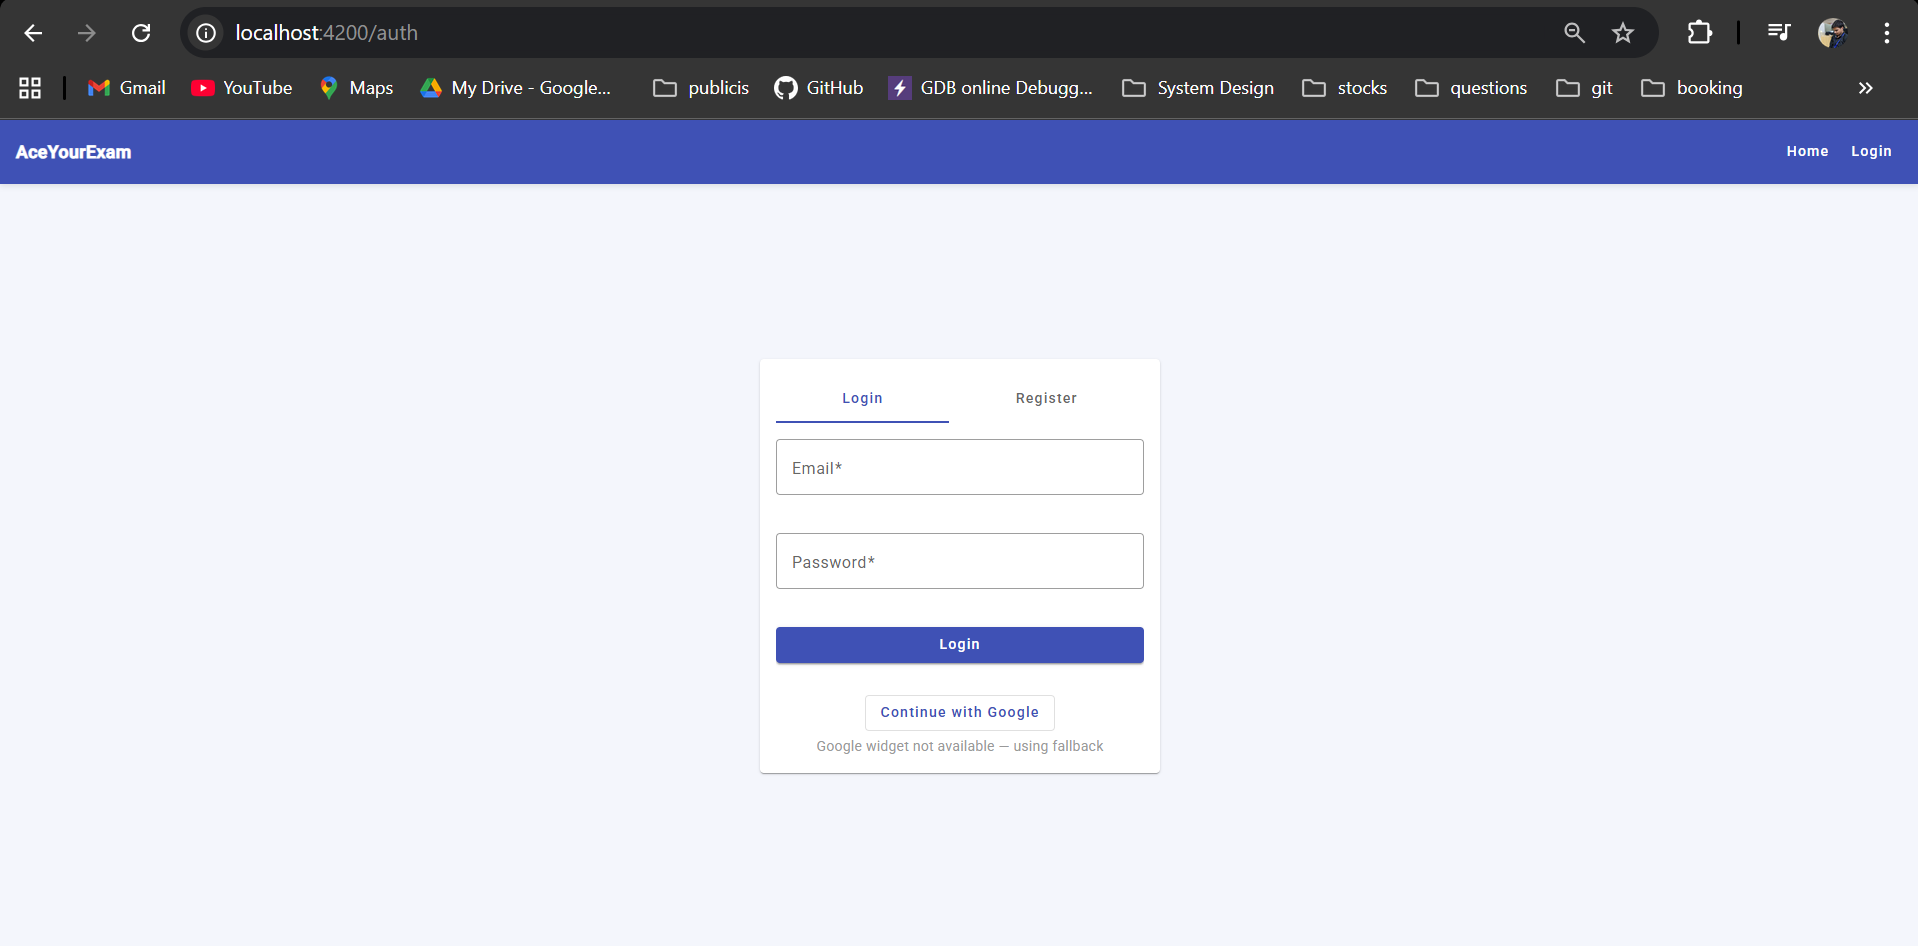
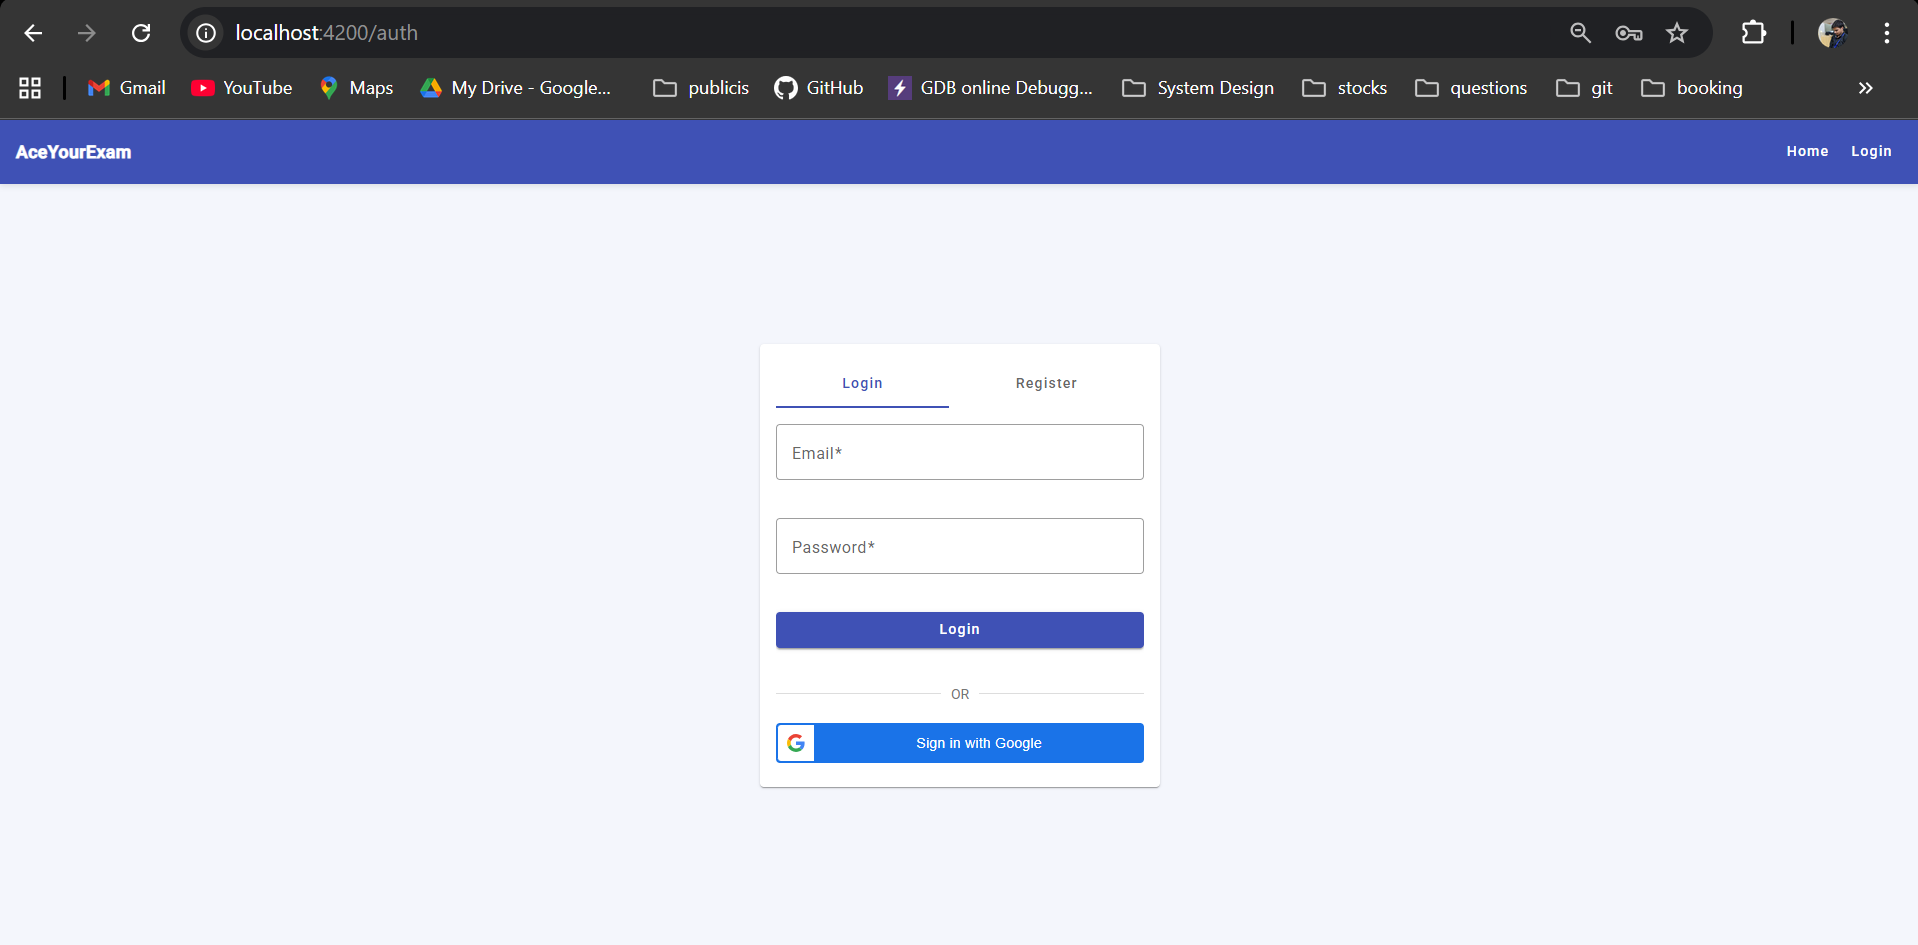
Updated readme for google login

diff --git a/README.md b/README.md
@@ -30,11 +30,25 @@ The platform focuses on **exam realism, accuracy, and detailed analytics**, prov
 
 ## 🔐 Authentication & Security
 
-- Email & password-based authentication
-- JWT token generation and validation
-- Custom authentication filter (`JwtAuthenticationFilter`)
-- Route protection using Angular guards
-- Secure endpoint access via Spring Security
+AceYourExam implements a **production-grade authentication system** with both traditional and modern login flows.
+
+- 🔑 **Email & Password Authentication**
+  - Secure login and registration
+  - Passwords stored using strong hashing
+  - JWT-based stateless session management
+
+- 🟢 **Google OAuth 2.0 Login**
+  - One-click login using Google account
+  - Secure ID token verification on backend
+  - Automatic user provisioning for first-time Google users
+  - Seamless fallback to JWT-based authorization after login
+
+- 🛡 **Security & Access Control**
+  - JWT token generation and validation
+  - Role-based authorization (**STUDENT / ADMIN**)
+  - Custom authentication filter (`JwtAuthenticationFilter`)
+  - Secure endpoint access via Spring Security
+  - Route protection using Angular guards
 
 ---
 
@@ -108,7 +122,9 @@ The platform focuses on **exam realism, accuracy, and detailed analytics**, prov
 
 - 🔐 **Secure Authentication**
   - Email & password login
+  - Google OAuth 2.0 login (One-click sign-in)
   - JWT-based session handling
+  - Role-based access control
 
 - 📝 **Real Exam Experience**
   - Timed exams with auto-submit
@@ -136,6 +152,16 @@ The platform focuses on **exam realism, accuracy, and detailed analytics**, prov
   - RESTful APIs
   - DTO-based responses
   - Modular security configuration
+
+---
+
+## 🌟 Notable Engineering Highlights
+
+- Implemented **Google OAuth 2.0 login** with backend ID token verification
+- Designed a **stateless authentication flow** combining OAuth + JWT
+- Built with **clean separation of concerns** (Controller → Service → Repository)
+- Handles real-world exam constraints (timeouts, autosave, auto-submit)
+- Scales cleanly for large exams (e.g., 180-question NEET simulations)
 
 ---
 
